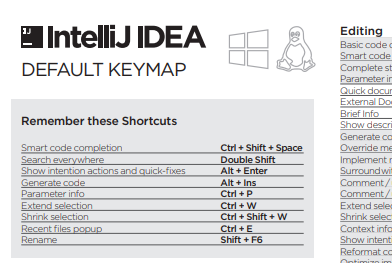
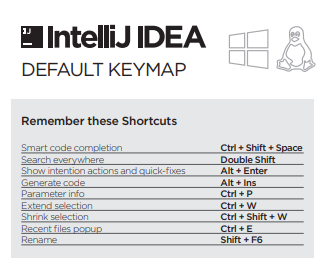
Updated image intellij-card.png and README

diff --git a/README.md b/README.md
@@ -61,9 +61,9 @@ http://localhost:8080/api/v1/people
 
 ## :small_orange_diamond: Compartilhando 
 
-Atalhos para o IntelliJ (Reference Card)
+Fiz o download dos atalhos para o IntelliJ (Reference Card) no link fornecido pelo professor.
 
-[IntelliJ Reference Card](IntelliJIDEA_ReferenceCard.pdf) (pdf)
+[IntelliJ Reference Card](IntelliJIDEA_ReferenceCard.pdf) (pdf completo)
 
 <p align="center">
   <img  alt="Cartão de Referência do IntelliJ" src="./img/intellij-card.png" width="50%">
